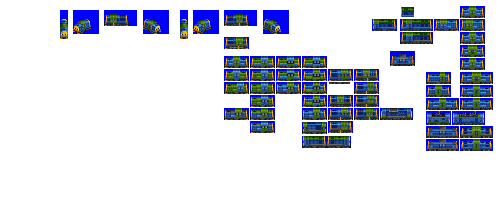
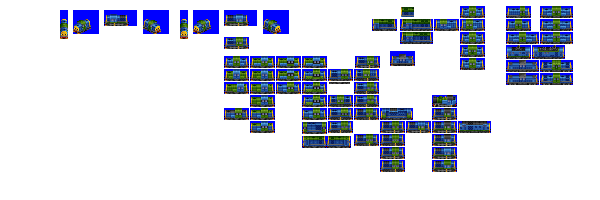
Change: more WIP on Hercules, Goliath, Little Bear

diff --git a/src/vehicles/little_bear.py b/src/vehicles/little_bear.py
@@ -11,7 +11,7 @@ consist = EngineConsist(id='little_bear',
                         joker=True,
                         gen=4,
                         intro_date_offset=-6,
-                        sprites_complete=True)
+                        sprites_complete=False)
 
 consist.add_unit(type=DieselEngineUnit,
                  weight=68,

diff --git a/src/vehicles/hercules.py b/src/vehicles/hercules.py
@@ -11,7 +11,7 @@ consist = EngineConsist(id='hercules',
                         joker=True,
                         gen=5,
                         intro_date_offset=-5,
-                        sprites_complete=True)
+                        sprites_complete=False)
 
 consist.add_unit(type=DieselEngineUnit,
                  weight=71,
